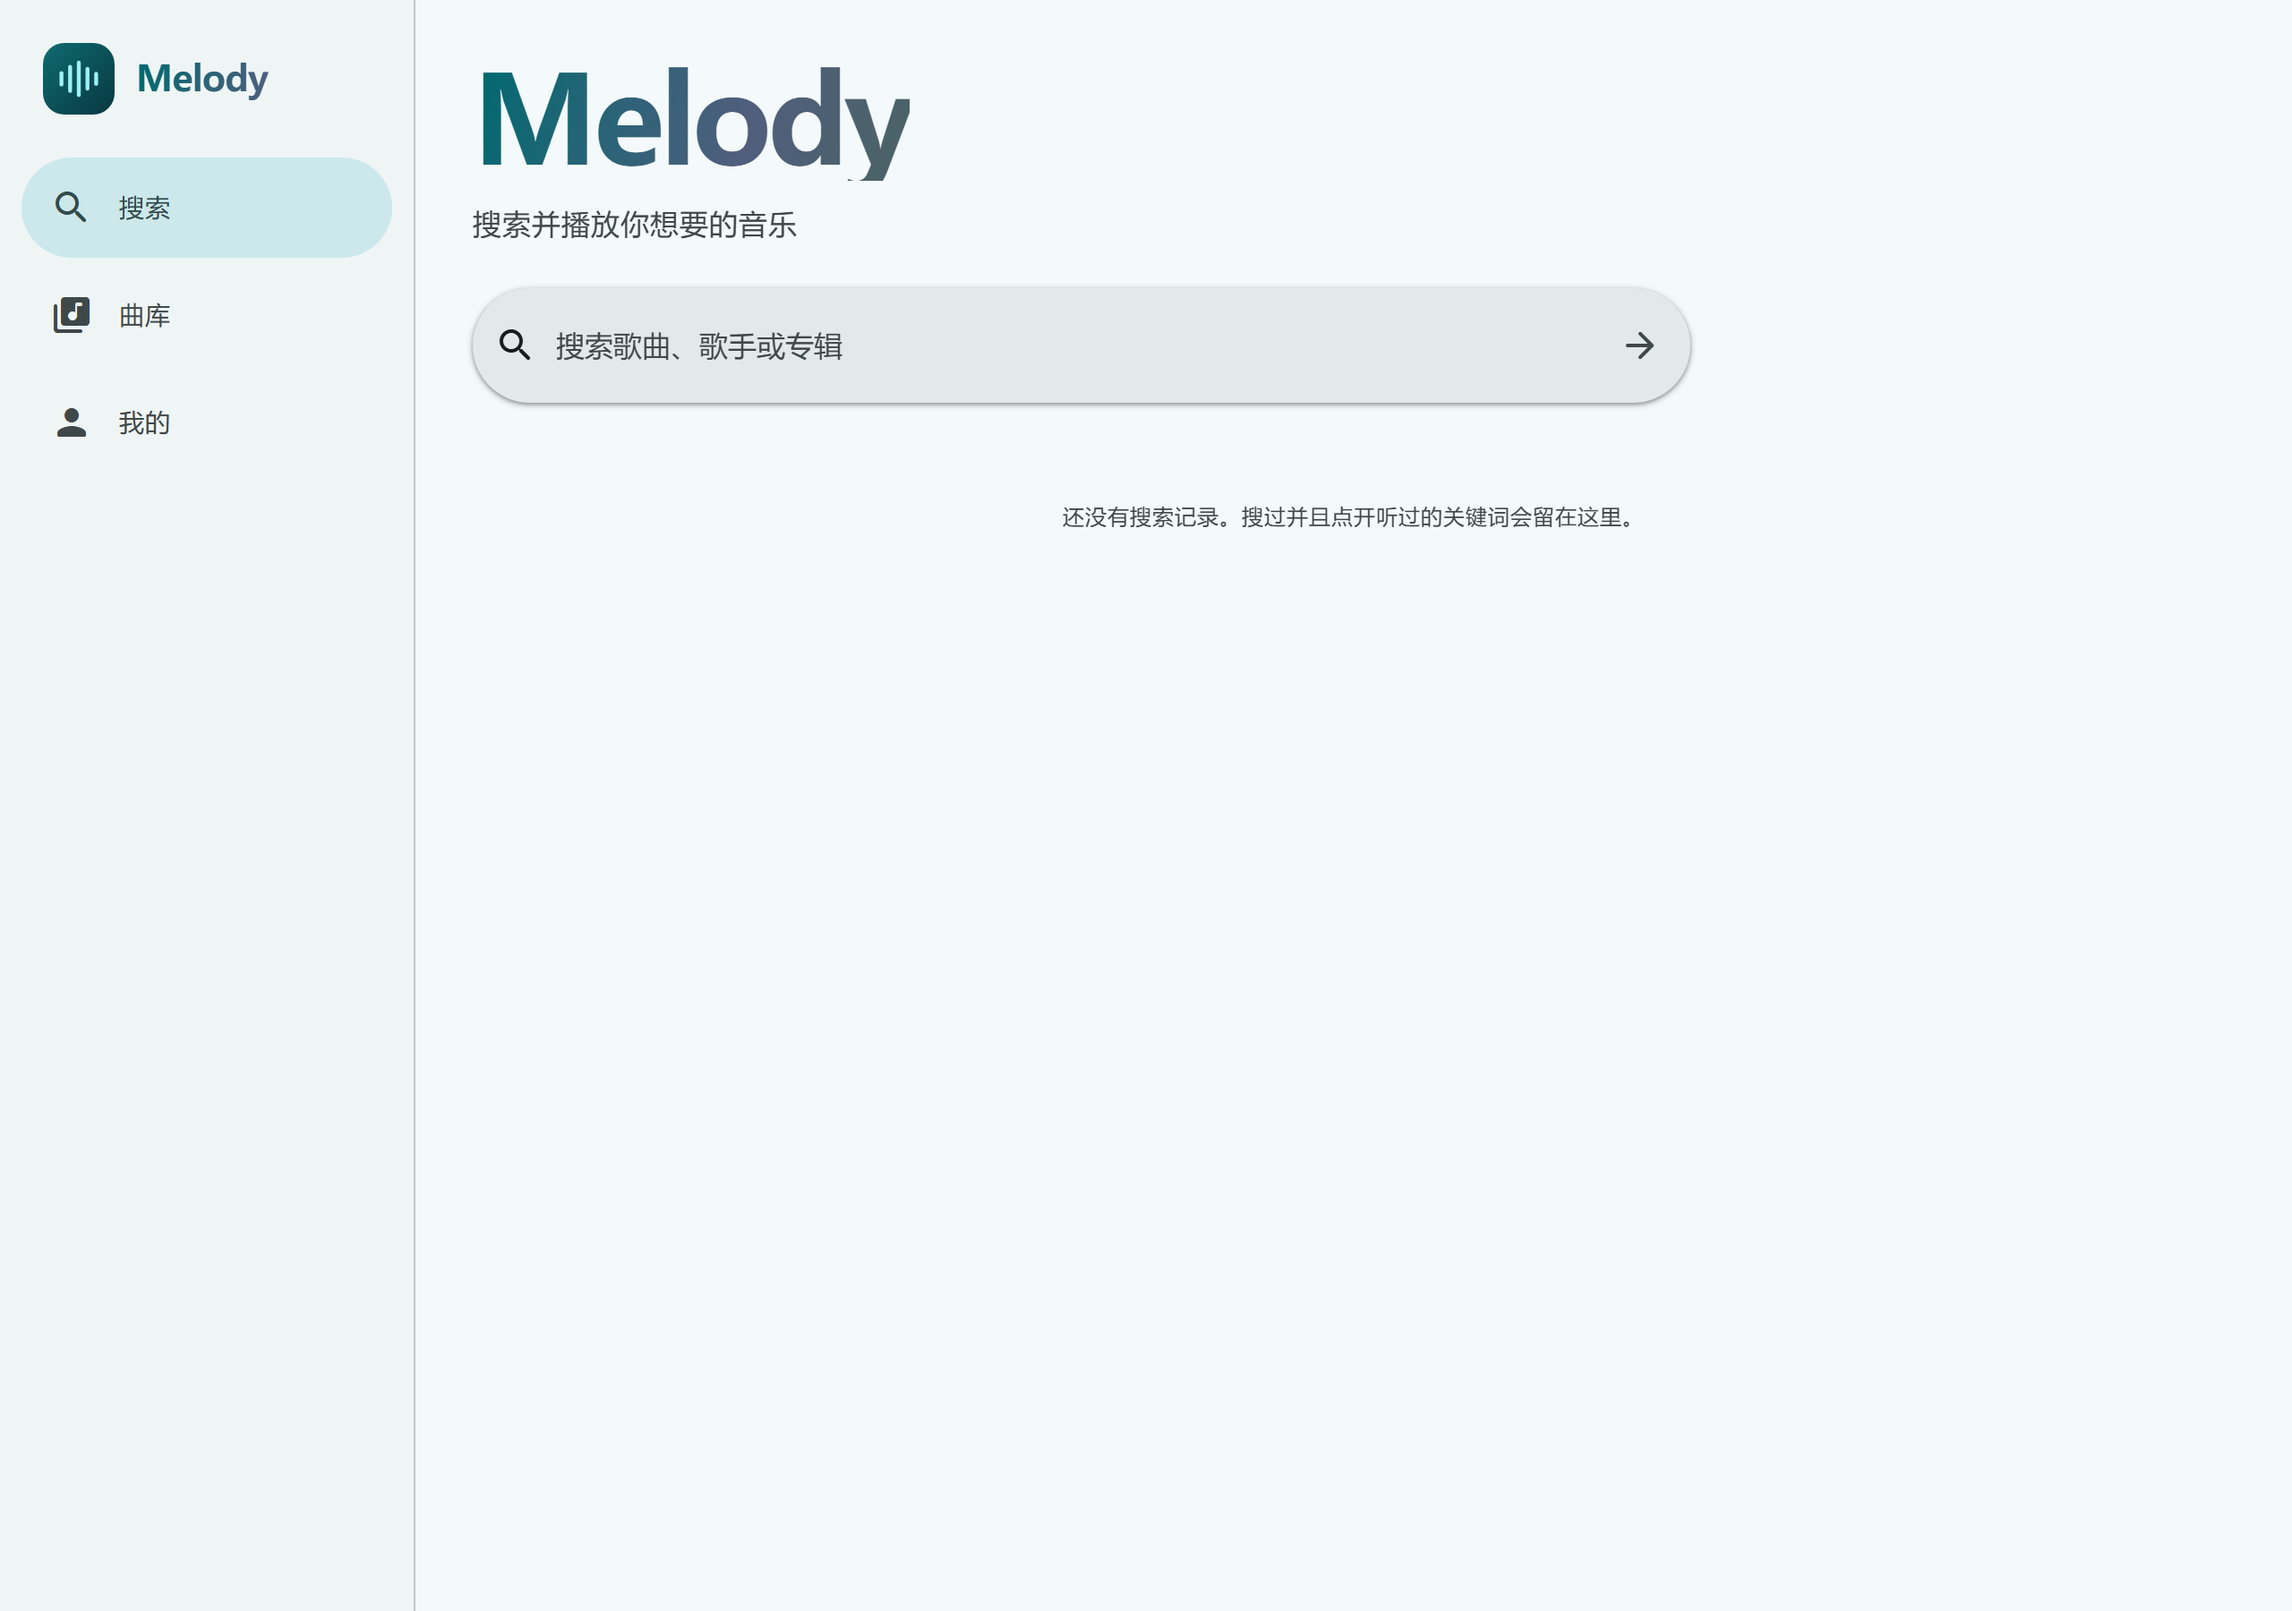
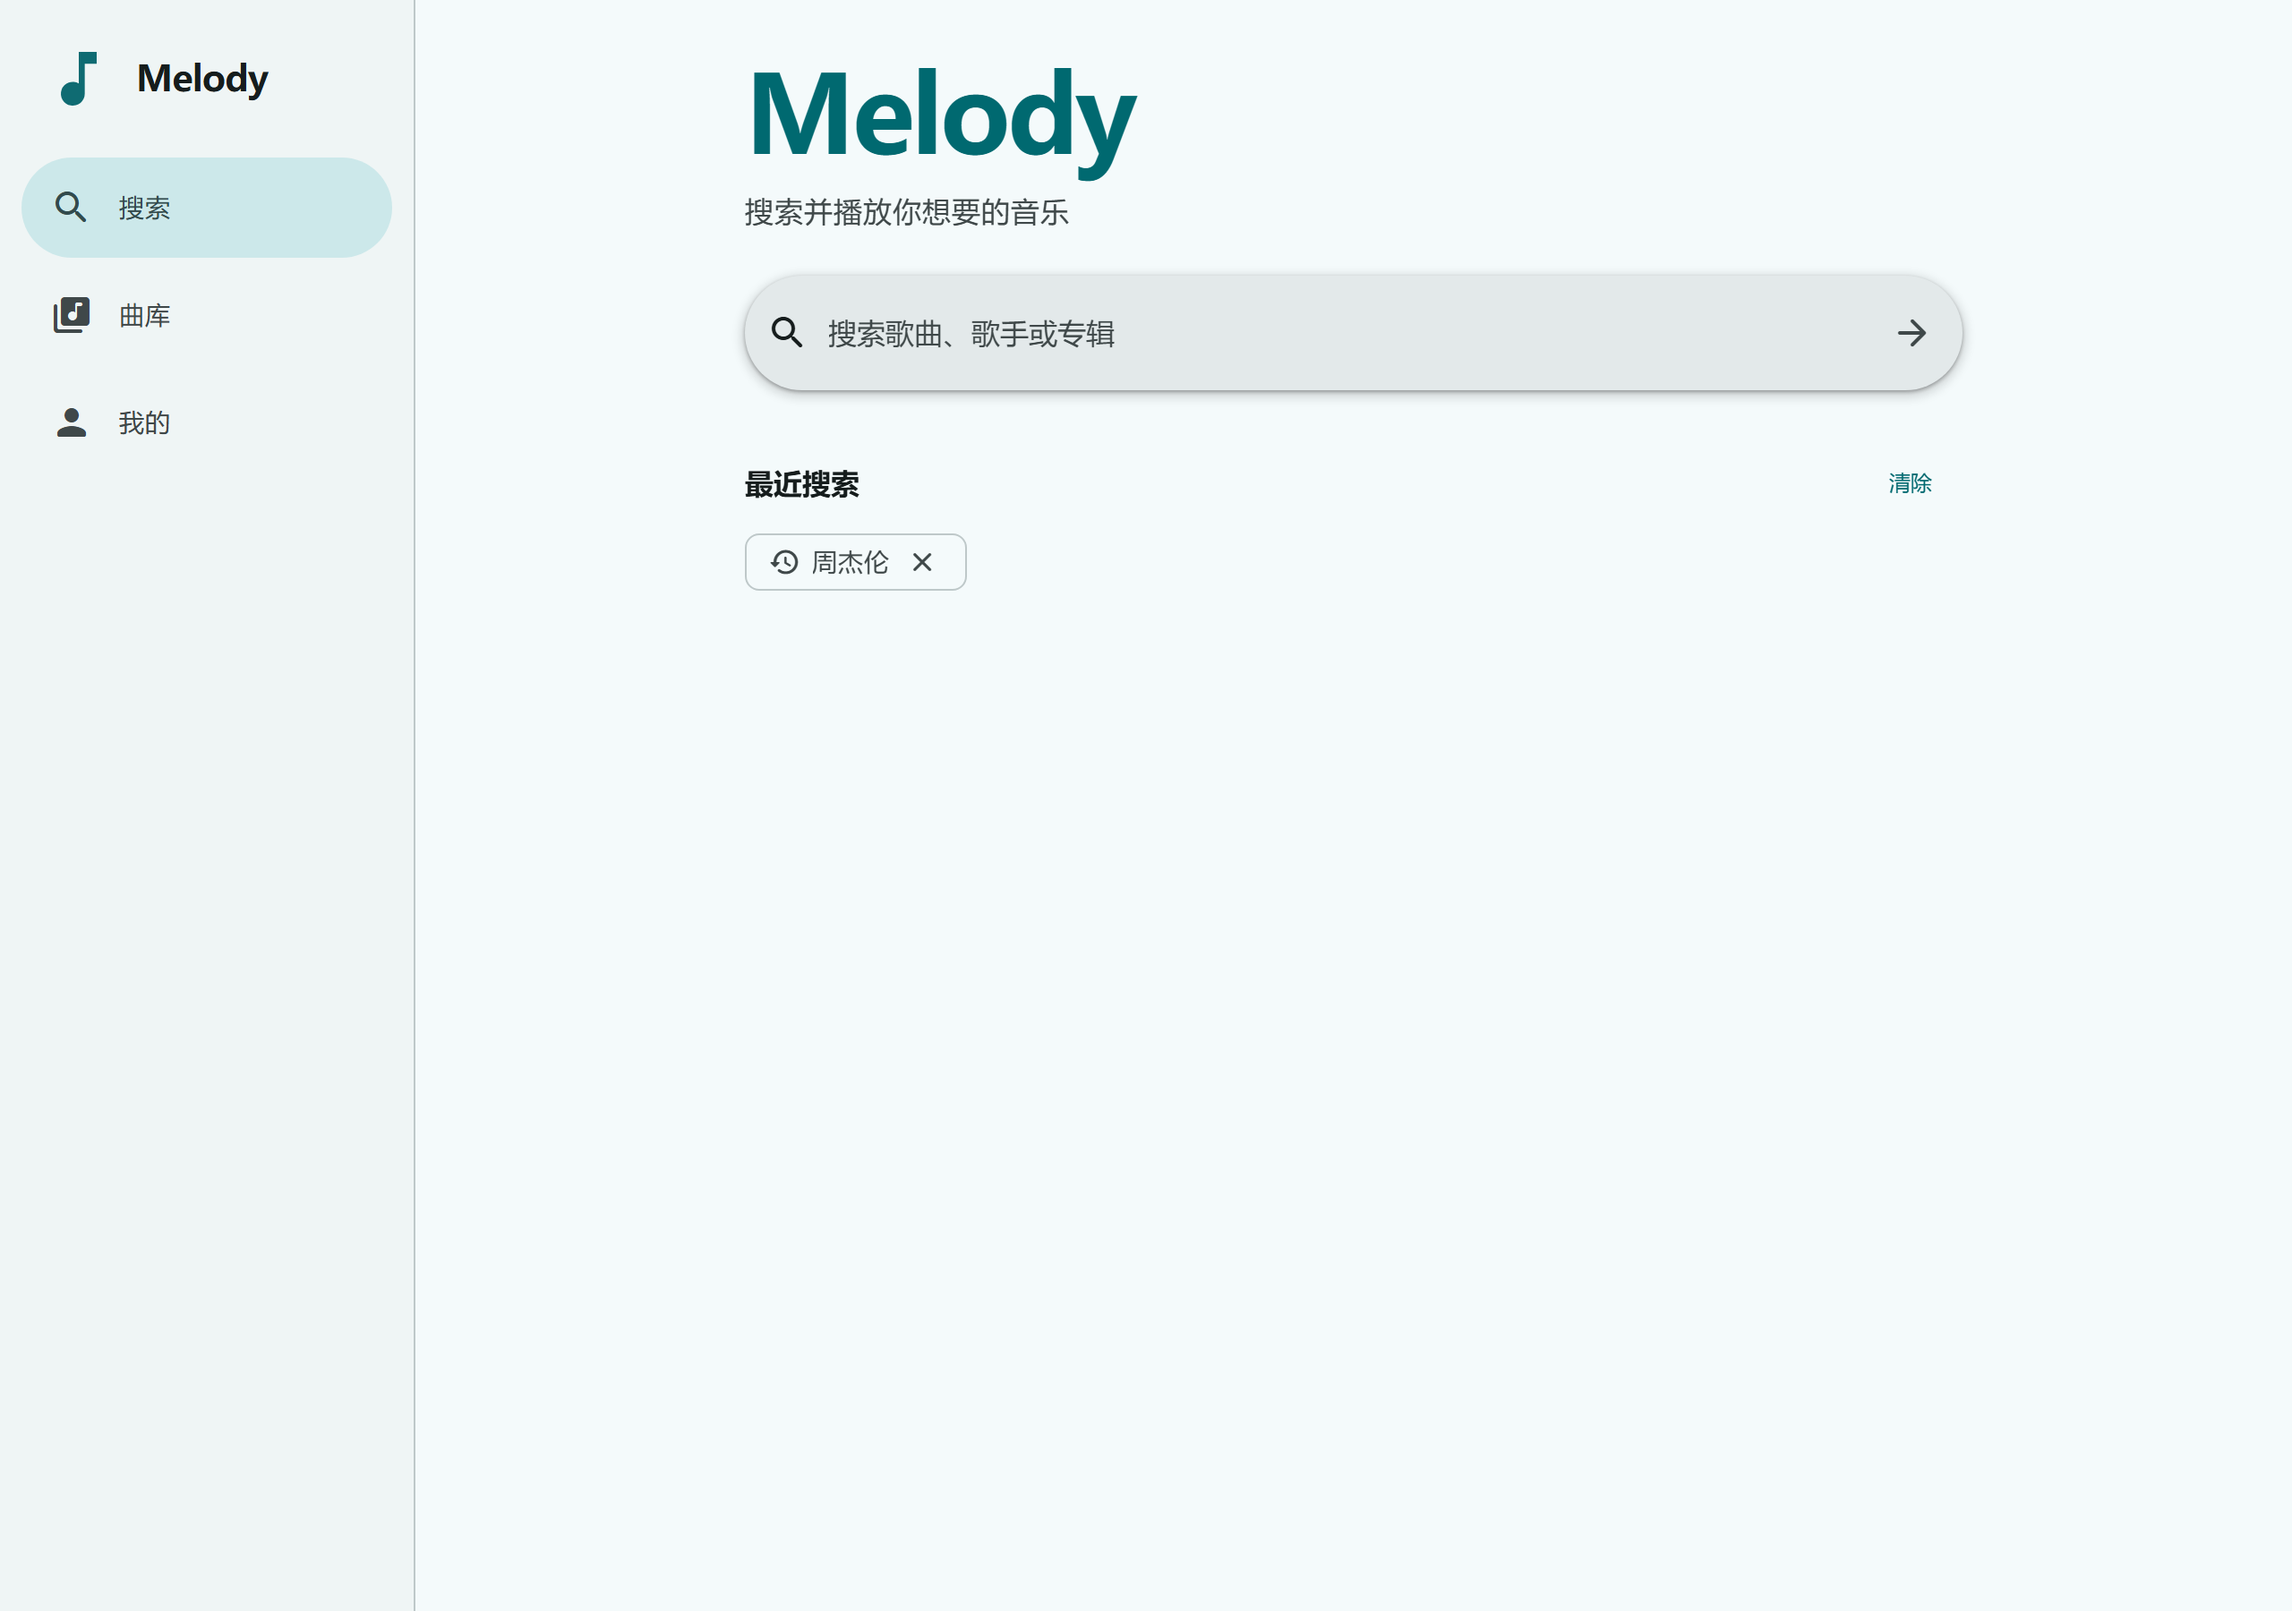
搜索结果分栏改用下划线标签；首页改 680px 居中窄栏；封面取色按可读性排序并逐个代理兜底

diff --git a/css/app.css b/css/app.css
@@ -680,21 +680,24 @@ body[data-detail="true"] .dock { bottom: calc(8px + var(--safe-b)); }
 .player__times { display: flex; justify-content: space-between; font-size: var(--ts-label-small-size); color: var(--md-sys-color-on-surface-variant); }
 .player__controls { display: flex; align-items: center; justify-content: center; gap: 12px; flex: 0 0 auto; padding: 4px 0 8px; }
 .player__aux { display: flex; align-items: center; justify-content: space-between; flex: 0 0 auto; }
-.player__tabs { display: flex; justify-content: center; gap: 4px; flex: 0 0 auto; align-self: center; margin: 6px 0 0; }
-.player__tab {
+/* 下划线标签：播放器视图切换与搜索结果分栏共用 */
+.tabbar { display: flex; gap: 4px; flex: 0 0 auto; }
+.tabbar--center { justify-content: center; align-self: center; margin: 6px 0 0; }
+.tabbar__tab {
   position: relative; border: 0; background: none; cursor: pointer;
-  padding: 12px 20px 14px;
+  padding: 10px 16px 12px;
   color: var(--md-sys-color-on-surface-variant);
   font-family: inherit; font-size: var(--ts-title-small-size); font-weight: 600; line-height: 1;
   transition: color var(--dur-3) var(--ease-std);
 }
-.player__tab::after {
+.tabbar--center .tabbar__tab { padding: 12px 20px 14px; }
+.tabbar__tab::after {
   content: ""; position: absolute; left: 12px; right: 12px; bottom: 0; height: 3px;
   border-radius: 3px 3px 0 0; background: transparent;
   transition: background-color var(--dur-3) var(--ease-std);
 }
-.player__tab[aria-selected="true"] { color: var(--md-sys-color-primary); }
-.player__tab[aria-selected="true"]::after { background: var(--md-sys-color-primary); }
+.tabbar__tab[aria-selected="true"] { color: var(--md-sys-color-primary); }
+.tabbar__tab[aria-selected="true"]::after { background: var(--md-sys-color-primary); }
 .player__bg--plain { display: none; }
 .player__lyrics { flex: 1 1 auto; min-height: 0; display: flex; flex-direction: column; justify-content: center; gap: 14px; padding: 8px 0; text-align: center; }
 .player__lyrics .line { font-size: var(--ts-title-medium-size); color: var(--md-sys-color-on-surface-variant); opacity: .55; transition: opacity var(--dur-4), color var(--dur-4), transform var(--dur-4) var(--ease-emph); }
@@ -714,6 +717,7 @@ body[data-detail="true"] .dock { bottom: calc(8px + var(--safe-b)); }
    首页 hero
    -------------------------------------------------------------------------- */
 .hero { padding: 24px 0 8px; display: flex; flex-direction: column; gap: 24px; }
+.home-narrow { width: 100%; max-width: 680px; margin: 0 auto; }
 .hero__brand {
   font-size: clamp(2.5rem, 7.2vw, 3.75rem);
   line-height: 1.04; font-weight: 600; letter-spacing: -.03em;

diff --git a/js/ui/pages/search.js b/js/ui/pages/search.js
@@ -22,6 +22,7 @@ async function renderHome(root) {
   const profileId = store.state.profileId;
   const history = await listSearches(profileId, 24);
   root.innerHTML =
+    '<div class="home-narrow">' +
     '<div class="hero">' +
       '<h1 class="hero__brand">Melody</h1>' +
       '<p class="hero__sub">搜索并播放你想要的音乐</p>' +
@@ -35,7 +36,8 @@ async function renderHome(root) {
           '<span class="chip__text">' + esc(row.term) + '</span>' +
           '<button class="icon-btn" style="width:24px;height:24px" data-remove="' + esc(row.id) + '" aria-label="删除这条记录">' +
           icon('close', 'icon--18') + '</button></span>').join('') + '</div></div>'
-      : '<div class="section"><div class="state-hint">还没有搜索记录。搜过并且点开听过的关键词会留在这里。</div></div>');
+      : '<div class="section"><div class="state-hint">还没有搜索记录。搜过并且点开听过的关键词会留在这里。</div></div>') +
+    '</div>';
 
   const form = root.querySelector('[data-search-form]');
   form.addEventListener('submit', (event) => {
@@ -94,9 +96,9 @@ function renderResults(root) {
   head.innerHTML =
     '<div class="row gap-8" style="justify-content:space-between;flex-wrap:wrap">' +
       (showTabs
-        ? '<div class="segmented" data-tabs>' +
-            '<button class="segmented__item" data-tab="songs" aria-selected="' + (pageState.tab === 'songs') + '">' + icon('music_note') + '歌曲</button>' +
-            '<button class="segmented__item" data-tab="artists" aria-selected="' + (pageState.tab === 'artists') + '">' + icon('person') + '歌手</button>' +
+        ? '<div class="tabbar" data-tabs role="tablist" aria-label="结果分类">' +
+            '<button class="tabbar__tab" role="tab" data-tab="songs" aria-selected="' + (pageState.tab === 'songs') + '">' + icon('music_note') + '歌曲</button>' +
+            '<button class="tabbar__tab" role="tab" data-tab="artists" aria-selected="' + (pageState.tab === 'artists') + '">' + icon('person') + '歌手</button>' +
           '</div>'
         : '<span class="t-label-l muted">' + (pageState.tracks.length ? '找到 ' + pageState.tracks.length + ' 首' : '') + '</span>') +
       (pageState.failed.length ? '<span class="t-body-s muted" data-failed title="' + esc(pageState.failed.map((f) => f.label + '：' + f.error).join(' / ')) + '">' +

diff --git a/js/ui/shell.js b/js/ui/shell.js
@@ -73,9 +73,9 @@ function renderPlayer() {
           icon(showTabs ? 'fullscreen_exit' : 'fullscreen') + '</button>' +
       '</div>' +
       (showTabs
-        ? '<div class="player__tabs" role="tablist" aria-label="播放器视图">' +
-            '<button class="player__tab" role="tab" data-view="cover" aria-selected="' + (viewMode === 'cover') + '">封面</button>' +
-            '<button class="player__tab" role="tab" data-view="lyrics" aria-selected="' + (viewMode === 'lyrics') + '">歌词</button>' +
+        ? '<div class="tabbar tabbar--center" role="tablist" aria-label="播放器视图">' +
+            '<button class="tabbar__tab" role="tab" data-view="cover" aria-selected="' + (viewMode === 'cover') + '">封面</button>' +
+            '<button class="tabbar__tab" role="tab" data-view="lyrics" aria-selected="' + (viewMode === 'lyrics') + '">歌词</button>' +
           '</div>'
         : '') +
       '<div class="player__stage" data-stage>' +

diff --git a/js/core/theme.js b/js/core/theme.js
@@ -135,9 +135,12 @@ export async function sourceColorFromUrl(urls, options = {}) {
     const color = await extractOnce(url, 5000);
     if (color) return color;
   }
-  // 自读失败（常见于 QQ 音乐 CDN：不带 ACAO）时，借一次图片代理，结果会缓存下来
+  // 自读失败（常见于 QQ 音乐 CDN：不带 ACAO）时，逐个借图片代理试，结果会缓存下来
   if (options.proxy !== false && list.length) {
-    return extractOnce(proxied(list[0]), 6000);
+    for (const url of list.slice(0, 3)) {
+      const color = await extractOnce(proxied(url), 6000);
+      if (color) return color;
+    }
   }
   return null;
 }

diff --git a/js/main.js b/js/main.js
@@ -38,7 +38,9 @@ async function syncCoverTheme() {
   if (token !== coverToken) return;
   let color = cached;
   if (!color) {
-    const candidates = artworkCandidates(track, 300);
+    // 能读到像素的封面优先：网易云的 CDN 带 ACAO，QQ/酷狗不带
+    const rank = (url) => (/server=netease|music\.126\.net/i.test(url) ? 3 : (/audius|doubanio|hdslb/i.test(url) ? 2 : 1));
+    const candidates = artworkCandidates(track, 300).sort((a, b) => rank(b) - rank(a));
     color = await sourceColorFromUrl(candidates);
     if (token !== coverToken) return;
     if (color) saveTrackColor(track.id, color).catch(() => {});

diff --git a/docs/PLAN.md b/docs/PLAN.md
@@ -18,6 +18,8 @@
 | 封面取色 | **全局生效**：整界面（导航/列表/弹窗/播放器）重算配色；按曲目缓存到 IndexedDB | 用户要求；避免每首歌重复算 |
 | 模糊封面背景 | 偏好设置开关（默认开） | 用户要求 |
 | 视觉 | 无装饰性渐变；只用 M3 色板纯色 + 色调高度 | 用户明确不喜欢渐变 |
+| 首页布局 | 桌面端 680px 居中窄栏（品牌 + 搜索框 + 历史同一列） | 搜索是这一页的唯一主角 |
+| 封面取色顺序 | 先试能读像素的源（网易云/Audius），再逐个图片代理兜底 | QQ/酷狗 CDN 不带 ACAO |
 
 ## 二、技术事实（2026-11 实测，非推测）
 
